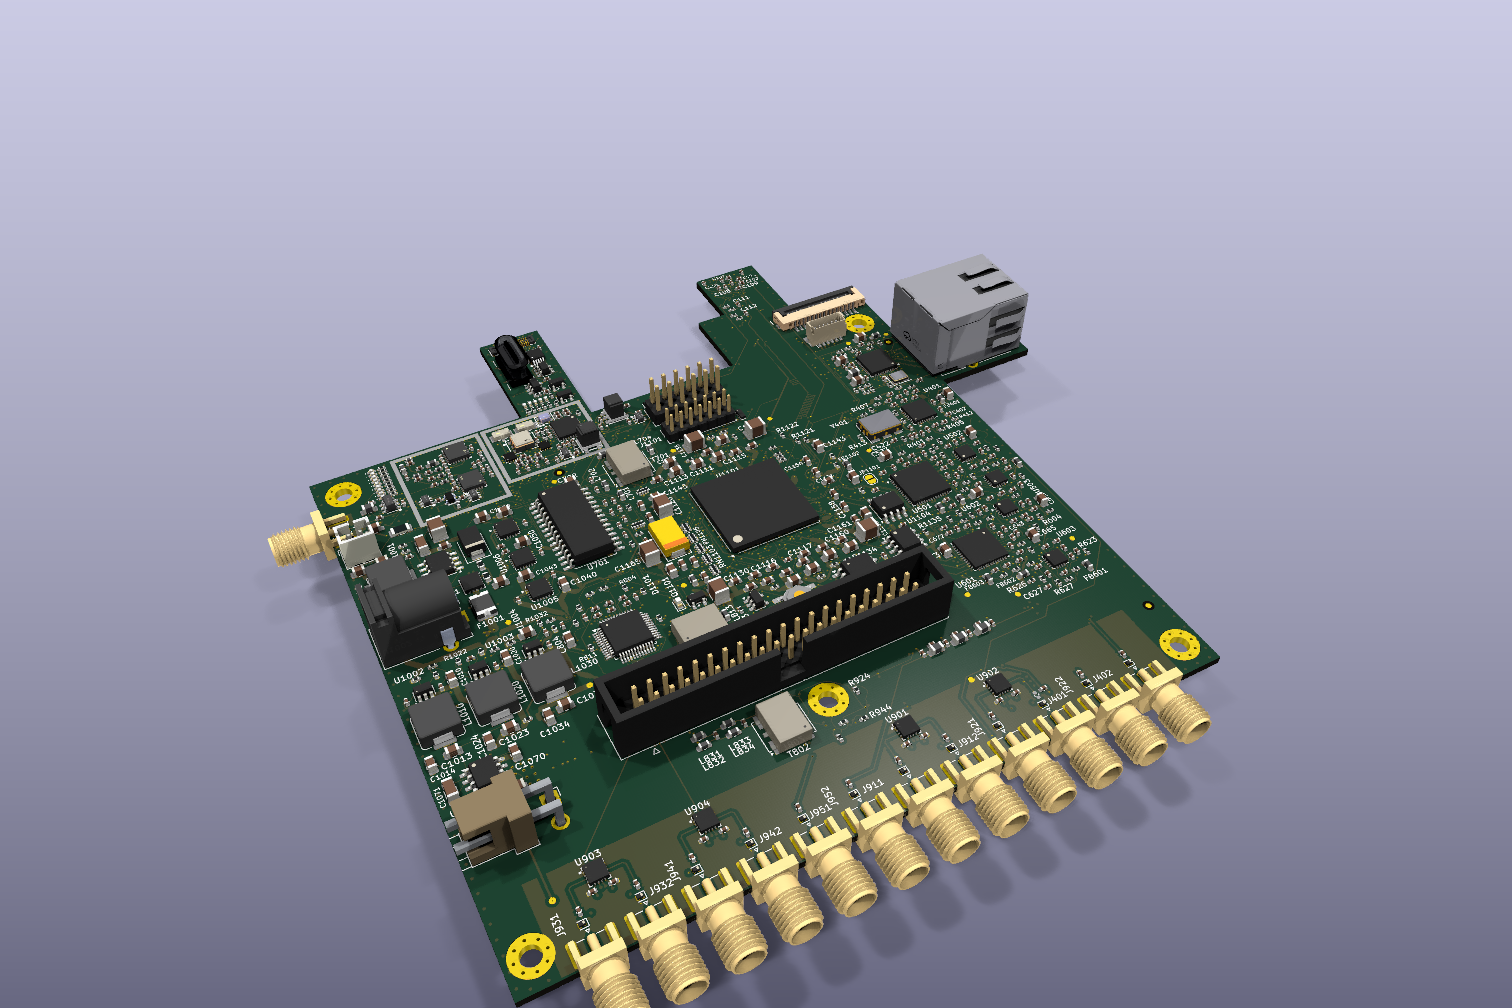
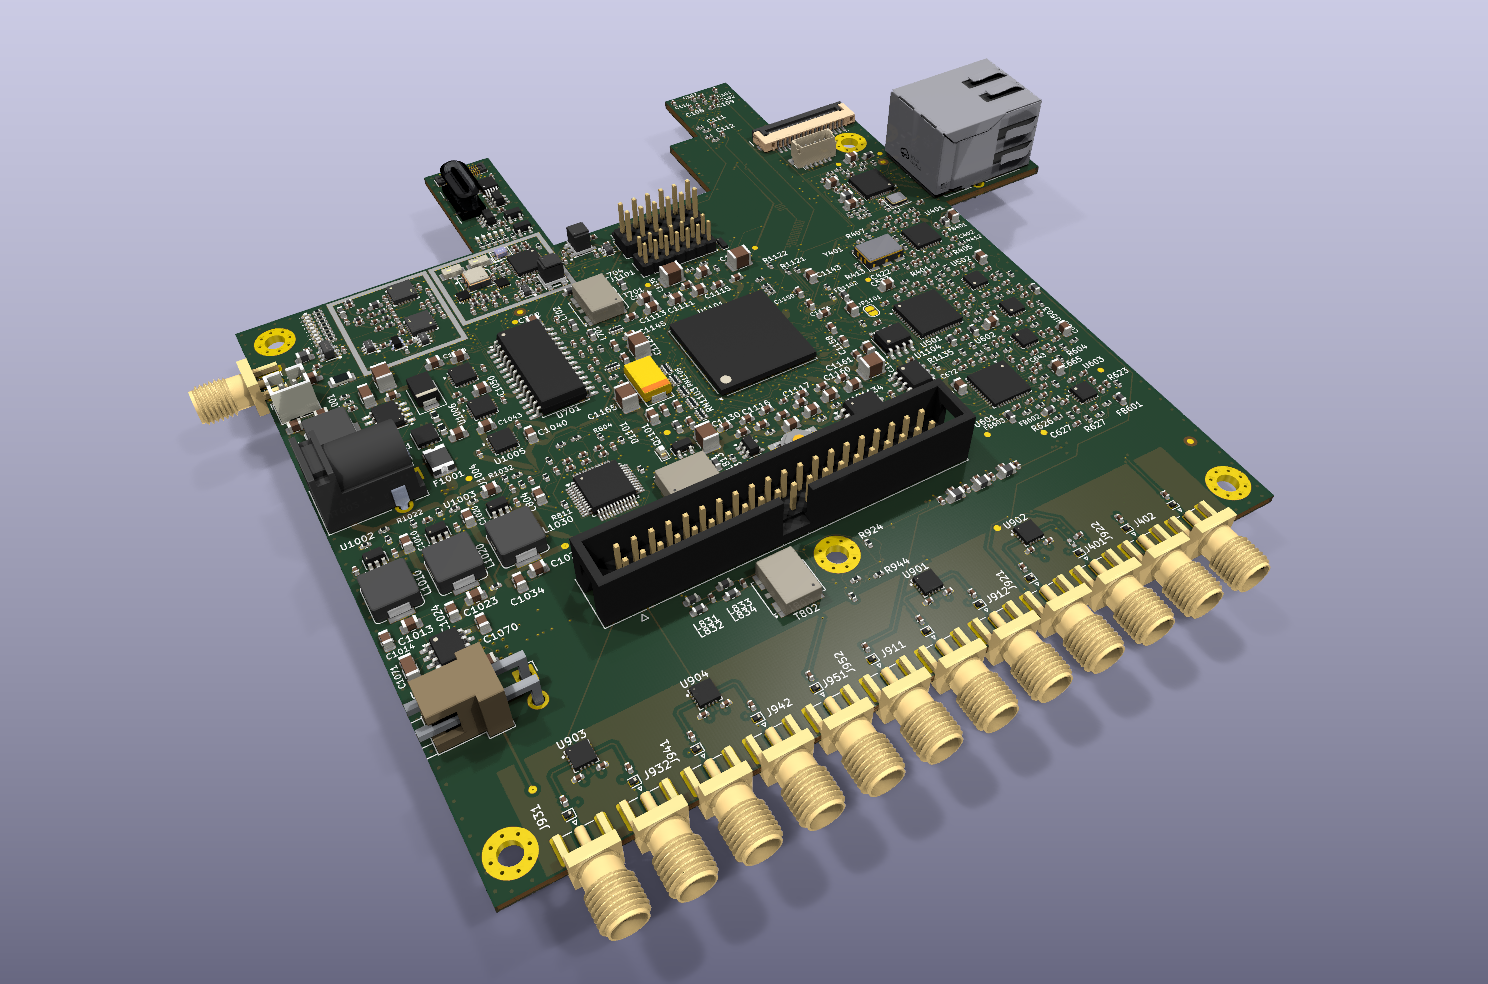
Renders: the adapter's iso view centred again (as in Rev07); README shows the PSU board
board_iso.png and its 4K version had drifted off-centre; re-rendered from a refilled copy with the project's
framing (rotate -40,0,30, zoom 0.9, pan 0,2.2,0). The README gains a PSU board section with its renders and
board temperature map.

diff --git a/README.md b/README.md
@@ -389,6 +389,24 @@ All electromagnetic, transient SPICE, thermal, and power integrity checks are ru
 
 ---
 
+## PSU board
+
+A separate 110 x 70 mm, 4-layer board feeds both boards from the car's battery or a 6 to 36 V bench supply, each by
+its own cable from one ground: an LTC4364 surge stopper (Load Dump A clamped at 48 V, reverse input to -40 V), an
+LM5177 four-switch buck-boost to 12.0 V, and one TPS26631 eFuse per output (2.0 A to the adapter's `J1001`, 3.0 A to
+the KV260's `J12`). Both boards keep running through ISO 16750-2 Load Dump A and B, a 24 V jump start and cranking
+Levels I, II and IV; with two cables, the BM20 link carries 38 mA a contact at the worst load instead of 132 mA.
+Design values, simulations (steady state, loop, input filter, vehicle events, thermal, conducted noise), layout and
+installation: [docs/PSU_SPEC.md](docs/PSU_SPEC.md); KiCad project in `psu/`.
+
+![The PSU board, 3D render](docs/img/psu/psu_iso.png)
+
+| Top | Board temperature, 70 C air |
+|---|---|
+| ![PSU top](docs/img/psu/psu_top.png) | ![PSU thermal](docs/sim/psu_thermal.png) |
+
+---
+
 ## Mounted on the KV260
 
 A printed base holds the KV260 and the adapter together: posts in place of the carrier's rubber feet,
